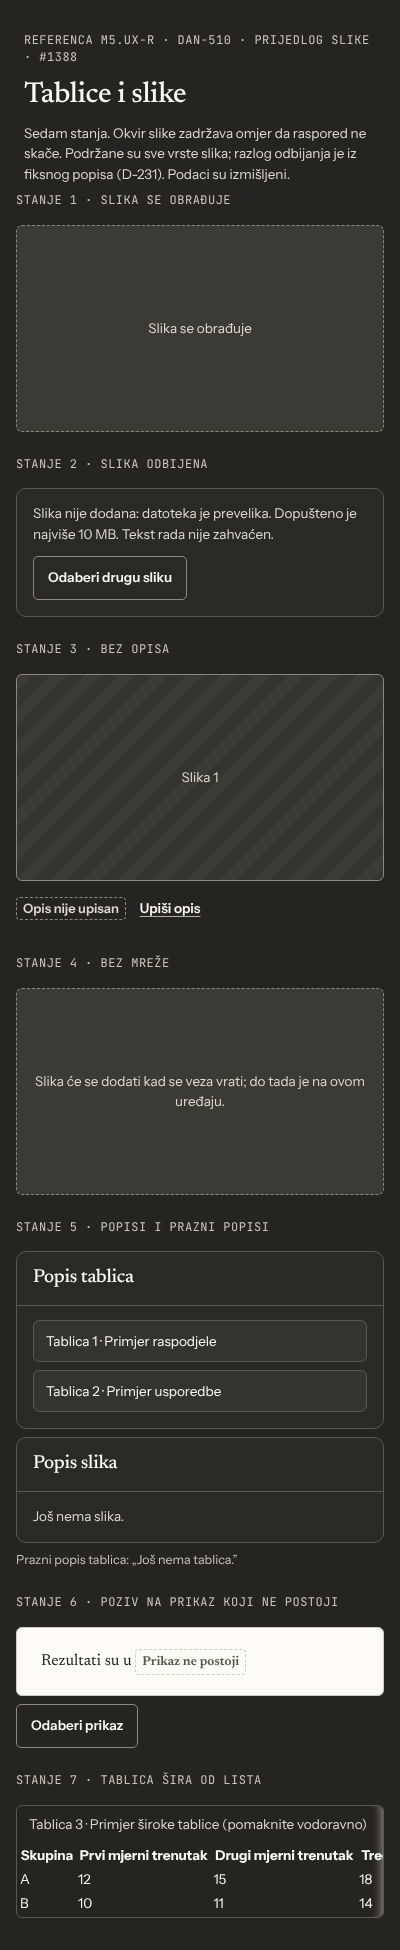
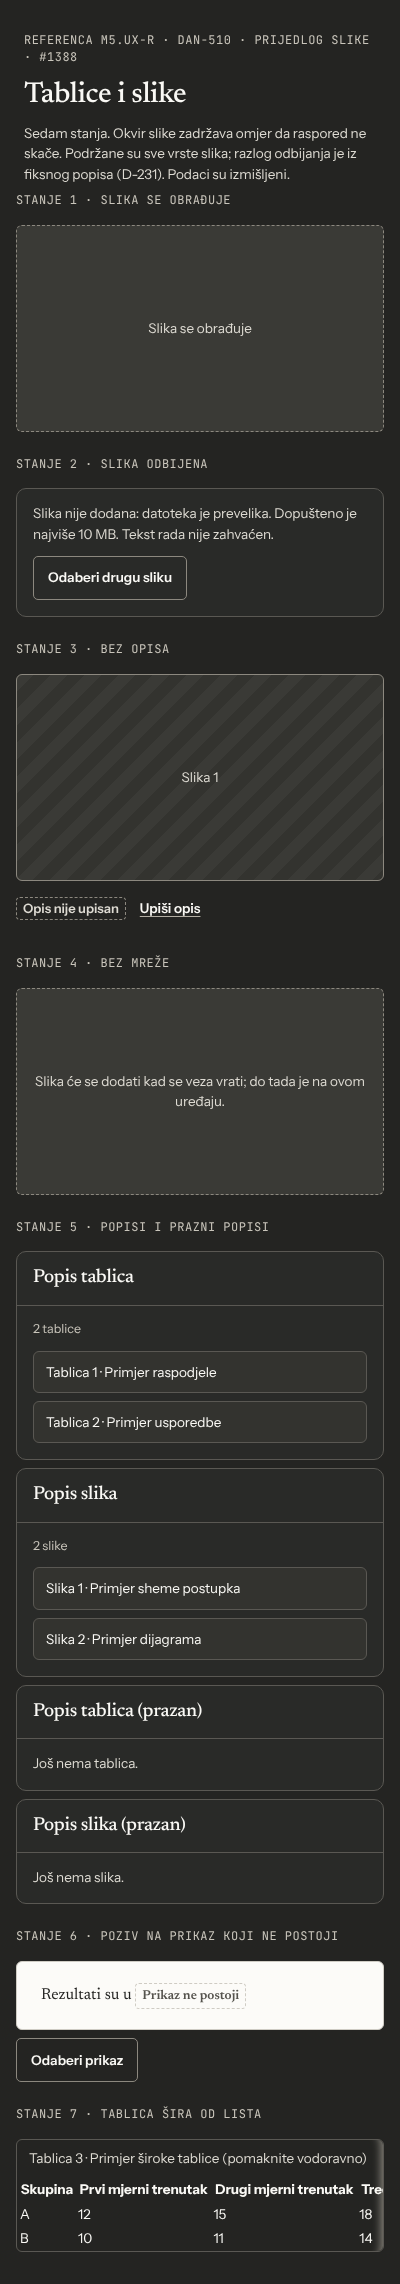
docs: draw filled and empty image/table lists in M5 reference (DAN-510)
Claude-Session: https://claude.ai/code/session_011GCKG6LMy3uswLDwXF1SrX

diff --git a/docs/design/ductura/m5-reference/tablice-slike.html b/docs/design/ductura/m5-reference/tablice-slike.html
@@ -43,10 +43,13 @@
   <section class="variant" aria-labelledby="t5">
     <div class="ref-tag">Stanje 5 · popisi i prazni popisi</div>
     <div class="panel"><div class="panel-top"><h2 id="t5">Popis tablica</h2></div>
-      <div class="panel-body"><ul class="list"><li class="item"><span>Tablica 1 · Primjer raspodjele</span></li><li class="item"><span>Tablica 2 · Primjer usporedbe</span></li></ul></div></div>
+      <div class="panel-body"><p class="meta">2 tablice</p><ul class="list"><li class="item"><span>Tablica 1 · Primjer raspodjele</span></li><li class="item"><span>Tablica 2 · Primjer usporedbe</span></li></ul></div></div>
     <div class="panel"><div class="panel-top"><h2>Popis slika</h2></div>
+      <div class="panel-body"><p class="meta">2 slike</p><ul class="list"><li class="item"><span>Slika 1 · Primjer sheme postupka</span></li><li class="item"><span>Slika 2 · Primjer dijagrama</span></li></ul></div></div>
+    <div class="panel"><div class="panel-top"><h2>Popis tablica (prazan)</h2></div>
+      <div class="panel-body"><p class="note">Još nema tablica.</p></div></div>
+    <div class="panel"><div class="panel-top"><h2>Popis slika (prazan)</h2></div>
       <div class="panel-body"><p class="note">Još nema slika.</p></div></div>
-    <p class="meta">Prazni popis tablica: „Još nema tablica.”</p>
   </section>
 
   <section class="variant" aria-labelledby="t6">
